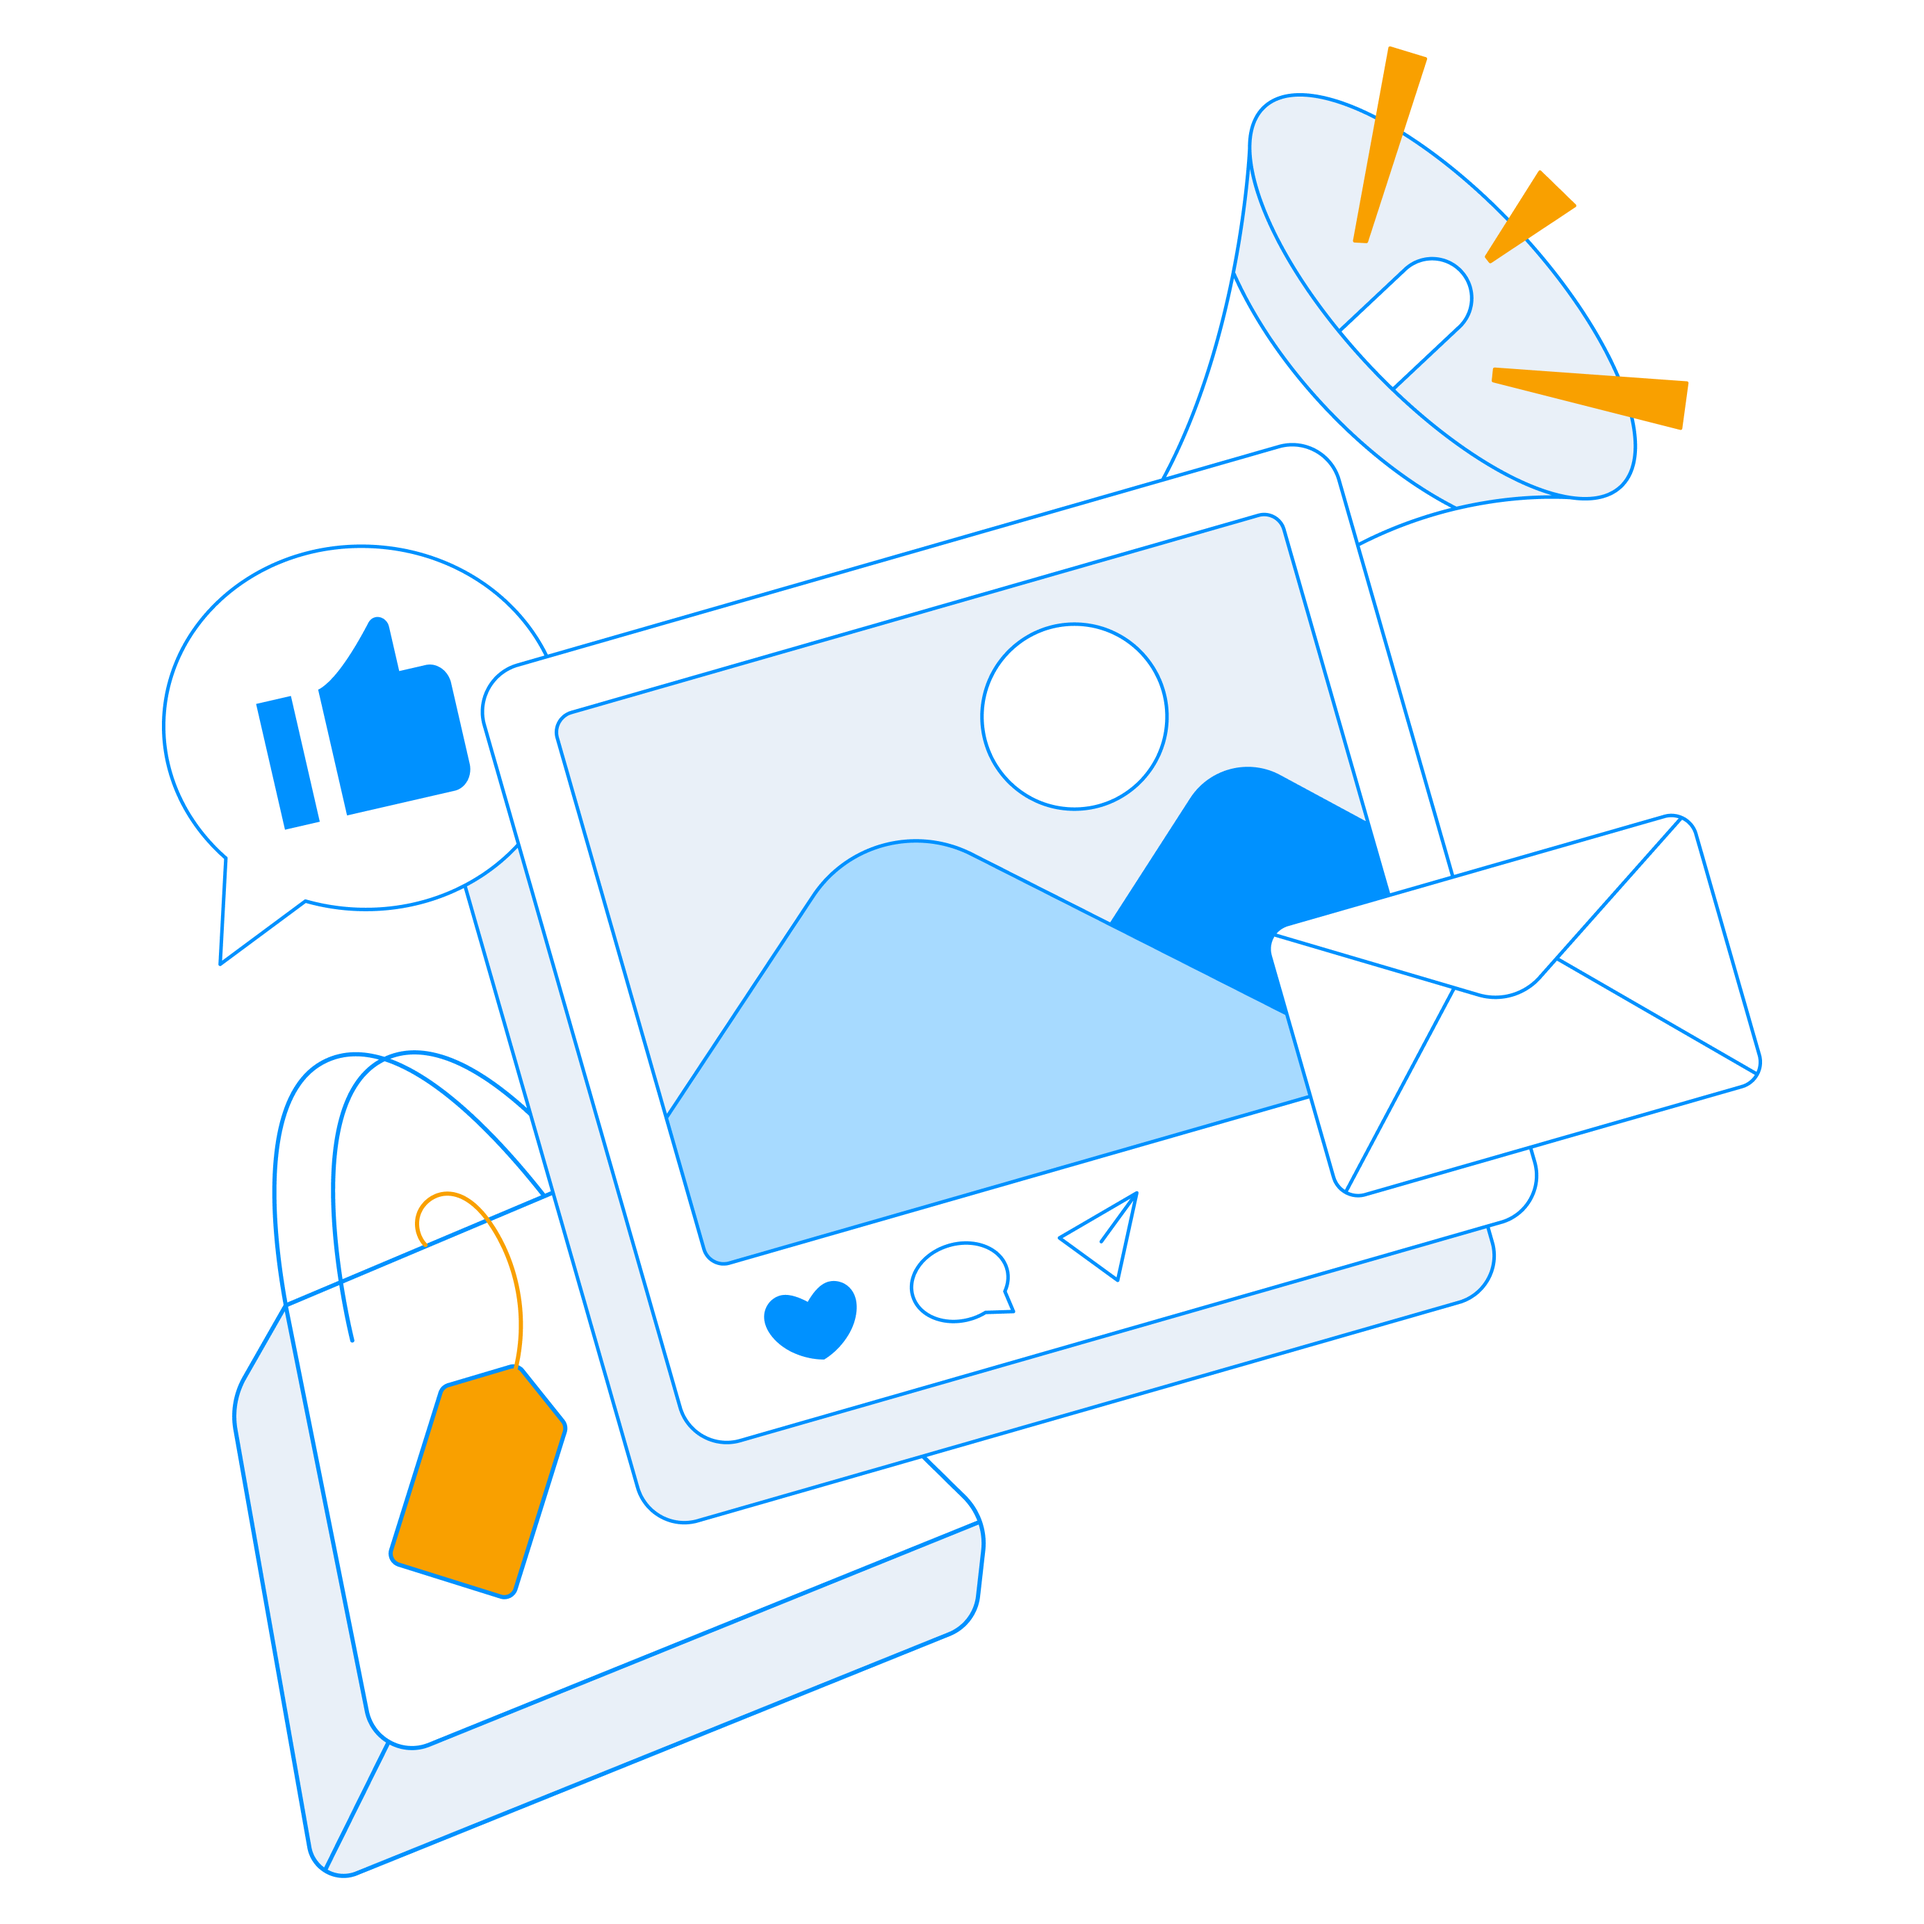
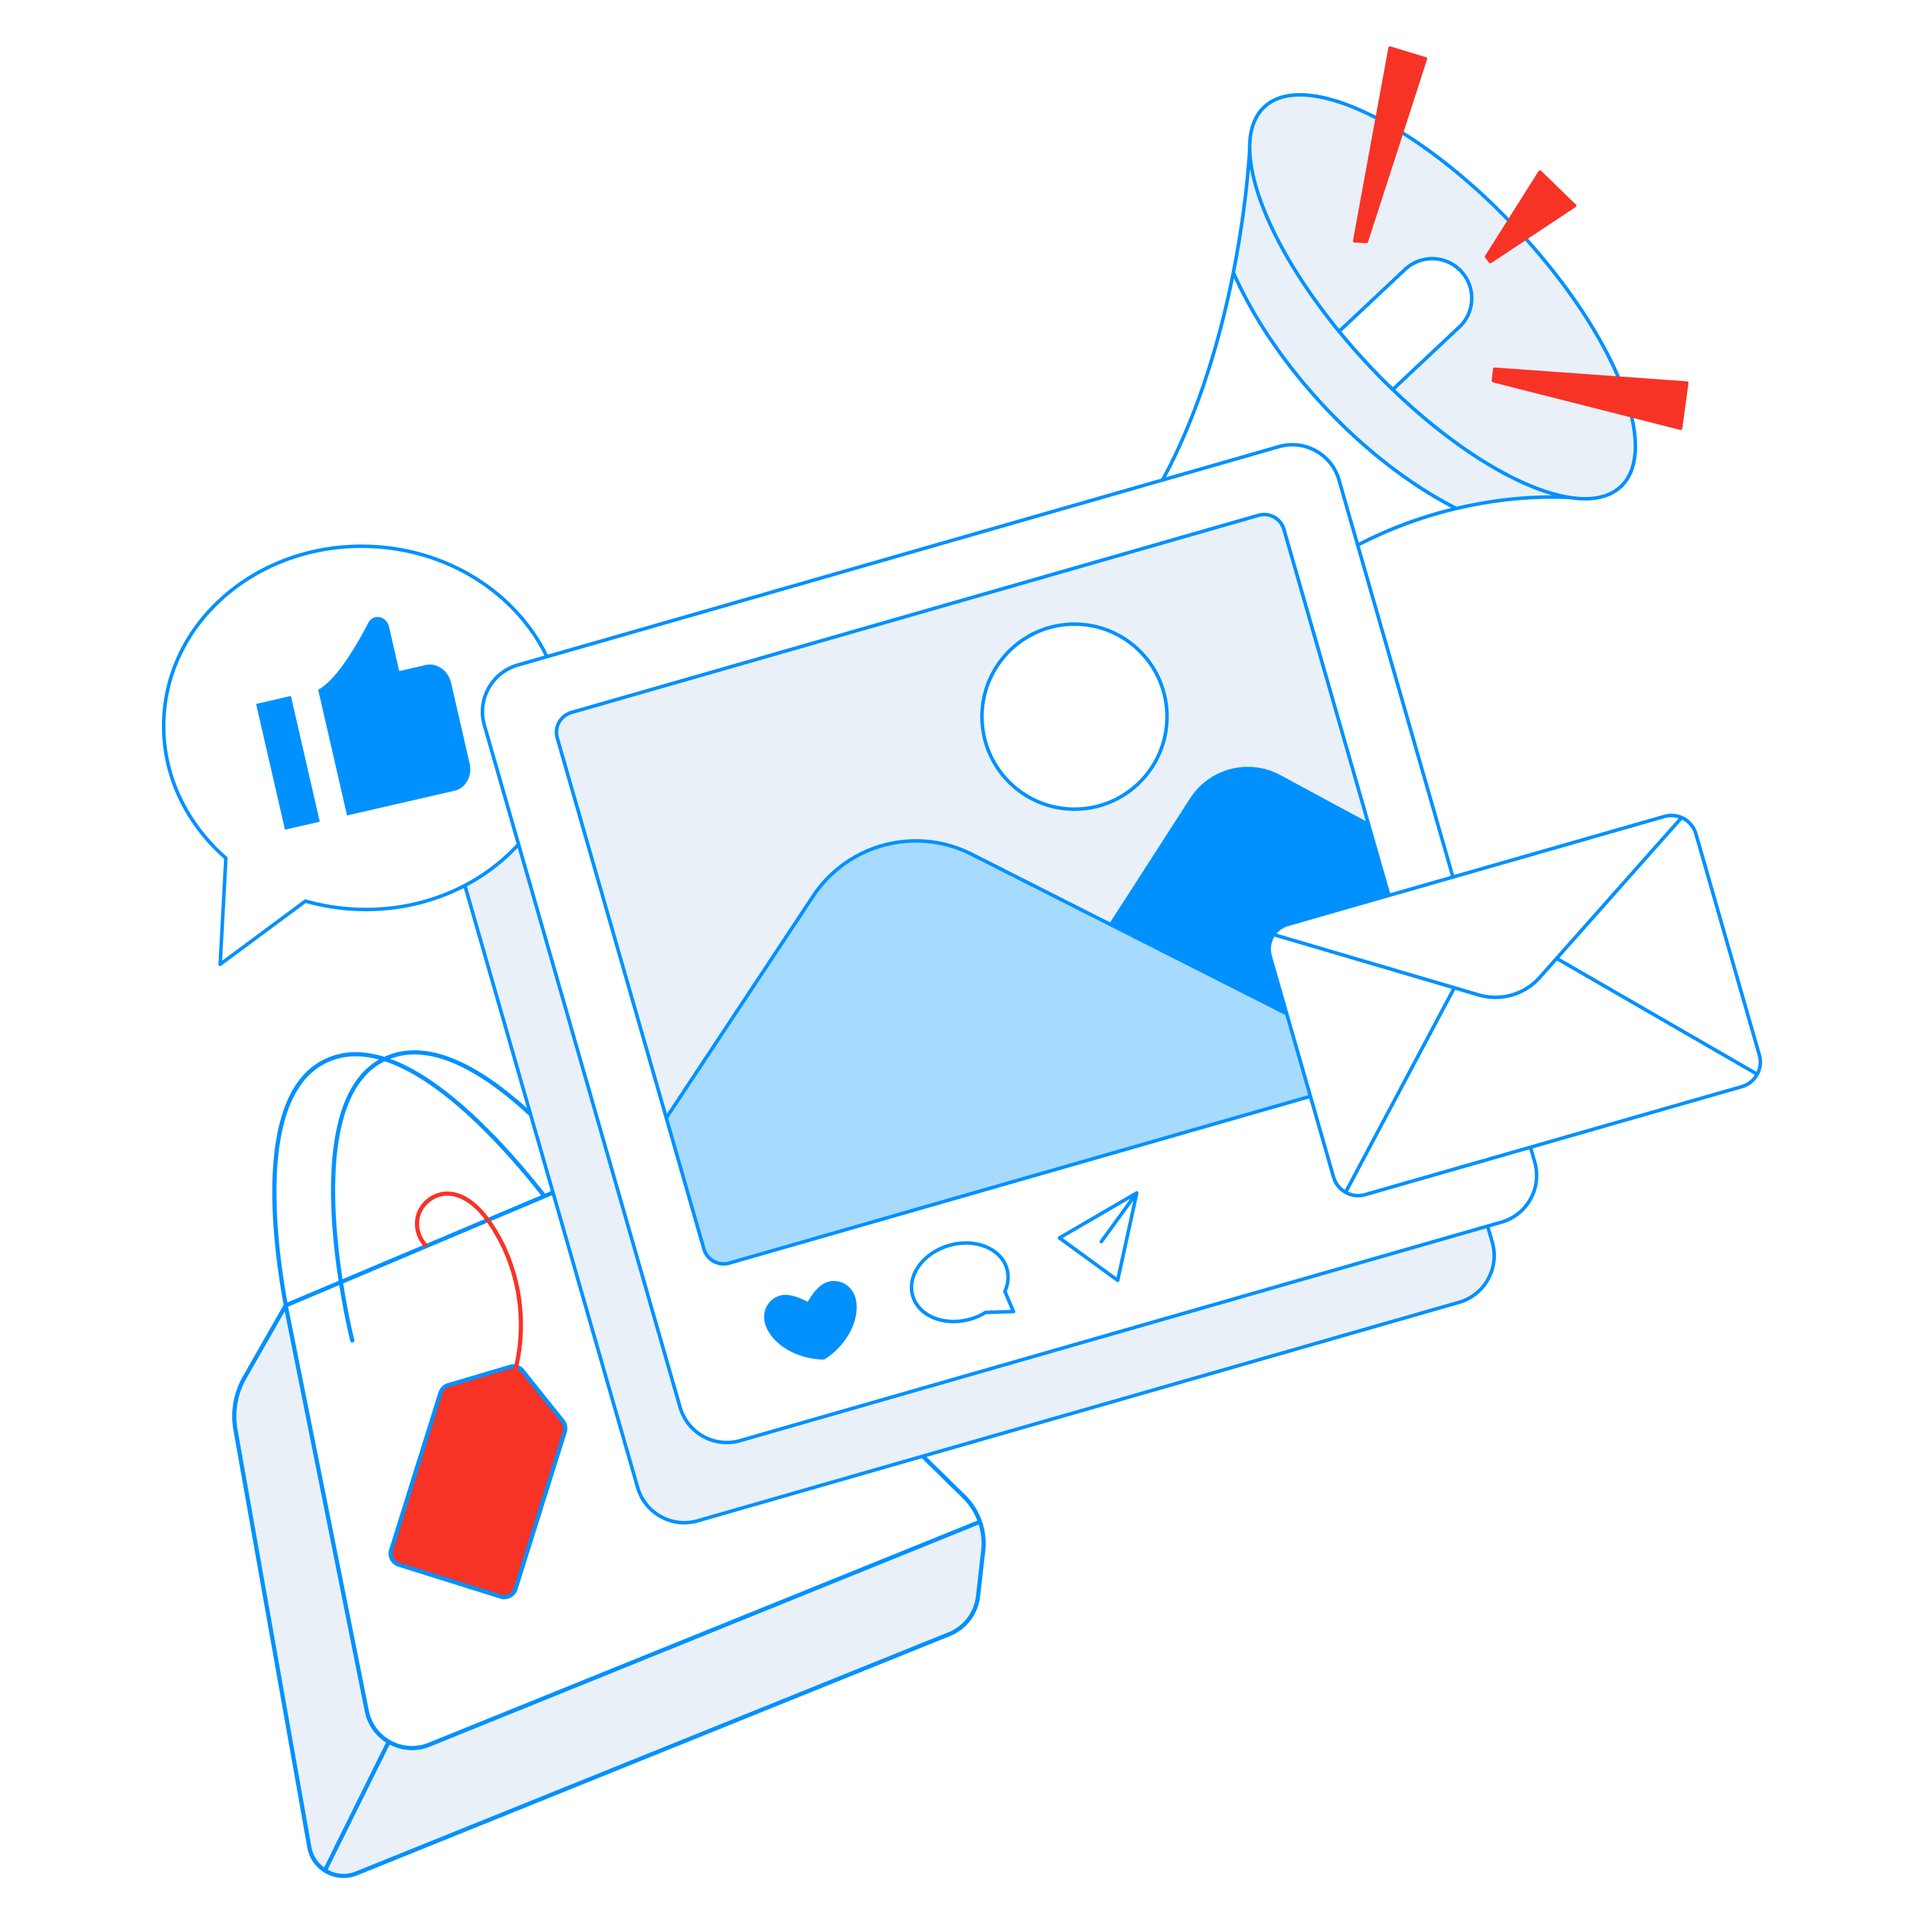
按钮颜色和一些距离调整

diff --git a/assets/full-image-banner.css b/assets/full-image-banner.css
@@ -25,11 +25,11 @@
 }
 
 .banner-image-container {
-  margin-top: 60px;
+  margin-top: 0px;
   margin-bottom: 60px;
   position: relative;
   width: 100%;
-  height: 800px;
+  height: 960px;
   /* Fixed height of 1000px */
   display: flex;
   justify-content: center;
@@ -54,7 +54,7 @@
 .shop-button {
   position: absolute;
   display: inline-block;
-  background-color: #555;
+  background-color: #F73326;
   color: white;
   padding: 12px 36px;
   border-radius: 30px;
@@ -72,12 +72,13 @@
 
   top: 63%;
   left: 50%;
-  background-color: #555555;
+  background-color: #F73326;
   color: #ffffff;
 }
 
 .shop-button:hover {
-  background-color: #777;
+  background-color: white;
+  color: #F73326;
   transform: translate(-50%, -50%) scale(1.05);
 }
 
@@ -101,7 +102,7 @@
 
 @media (max-width:1080px) {
   .banner-image-container {
-    margin-top: 60px;
+    margin-top: 0px;
     margin-bottom: 0px;
     height: 624px;
   }

diff --git a/assets/journey-continued.css b/assets/journey-continued.css
@@ -8,7 +8,7 @@
   padding: 60px 20px;
   overflow: hidden;
   width: 100%;
-  height: 1000px;
+  height: 600px;
 
 }
 
@@ -67,7 +67,7 @@
   gap: 10px;
   max-width: 400px;
   width: 100%;
-  border: #AFB7BF 1px solid;
+  border: #F73326 1px solid;
   border-radius: 999px;
   box-sizing: border-box;
 }
@@ -95,13 +95,20 @@
   transition: background 0.3s;
   white-space: nowrap;
   min-height: 48px;
-  border: #58595B 2px solid;
-  background-color: #58595B !important;
+  border: #F73326 2px solid;
+  background-color: #F73326 !important;
 
 }
 
 .journey-continued__button:hover {
   opacity: 0.9;
+  background-color: white !important;
+  color: #F73326;
+}
+
+.journey-continued__form-group input::placeholder {
+  opacity: 0.5;
+  color: #F73326;
 }
 
 .journey-continued__illustration {

diff --git a/assets/contact-form.css b/assets/contact-form.css
@@ -16,6 +16,7 @@
     z-index: 101;
 }
 .contact-lace-bottom{
+    pointer-events: none;
     position: absolute;
     z-index: 100;
     bottom: -2px;
@@ -79,7 +80,10 @@ title {}
 
 @media (max-width:1080px) {
   .contact-container {
-    height: 760px;
+    height: 860px;
+  }
+  .banner-lace {
+    bottom:-2px
   }
 }
 
@@ -138,7 +142,7 @@ title {}
 }
 
 .submit-btn {
-  background-color: #58595B;
+  background-color: #F73326;
   color: white;
   padding: 12px 30px;
   border: none;
@@ -152,7 +156,8 @@ title {}
 }
 
 .submit-btn:hover {
-  background-color: #555;
+  background-color: white;
+  color: #F73326;
 }
 
 .error {

diff --git a/assets/style-selector.css b/assets/style-selector.css
@@ -73,7 +73,7 @@
 }
 
 .style-card.active {
-  border: 2px solid #0066FF;
+  border: 2px solid #F73326;
 }
 
 .pantone-tag {
@@ -114,7 +114,7 @@
 }
 
 .submit-button {
-  background-color: #0091FF;
+  background-color: #F73326;
   color: white;
   border: none;
   border-radius: 999px;
@@ -131,7 +131,8 @@
 }
 
 .submit-button:hover {
-  background-color: #0052CC;
+  background-color: white;
+  color: #F73326;
 }
 
 .style-card.active .submit-button {

diff --git a/assets/custom-footer.css b/assets/custom-footer.css
@@ -18,6 +18,7 @@
   margin: 0 auto;
   width: 100%;
   padding: 0 40px;
+  margin-top: 300px;
 }
 
 .custom-footer-main {
@@ -134,12 +135,15 @@ input:focus {
   width: 100%;
   height: auto;
   min-height: 48px;
+  position: absolute;
+    bottom: 0;
 }
 
 .bottom-bar-content {
   display: flex;
   justify-content: space-between;
   align-items: center;
+  margin: 0;
 }
 
 .custom-copyright {
